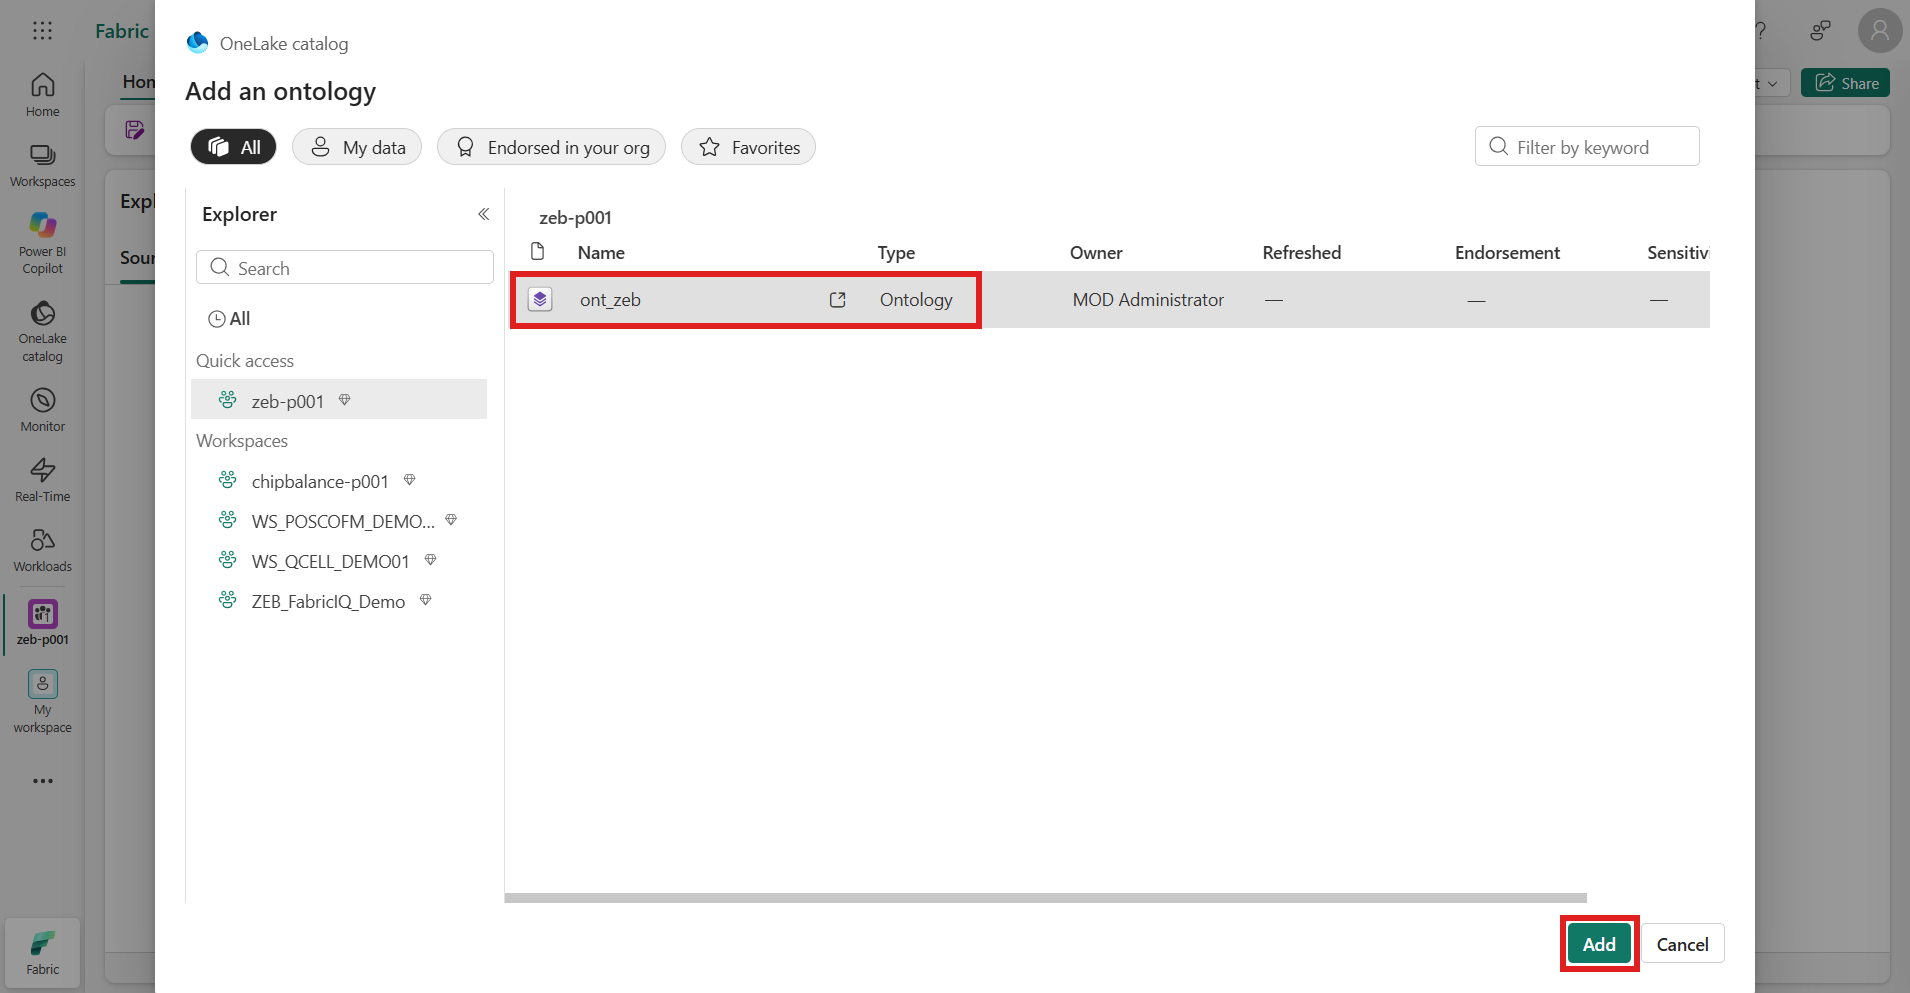
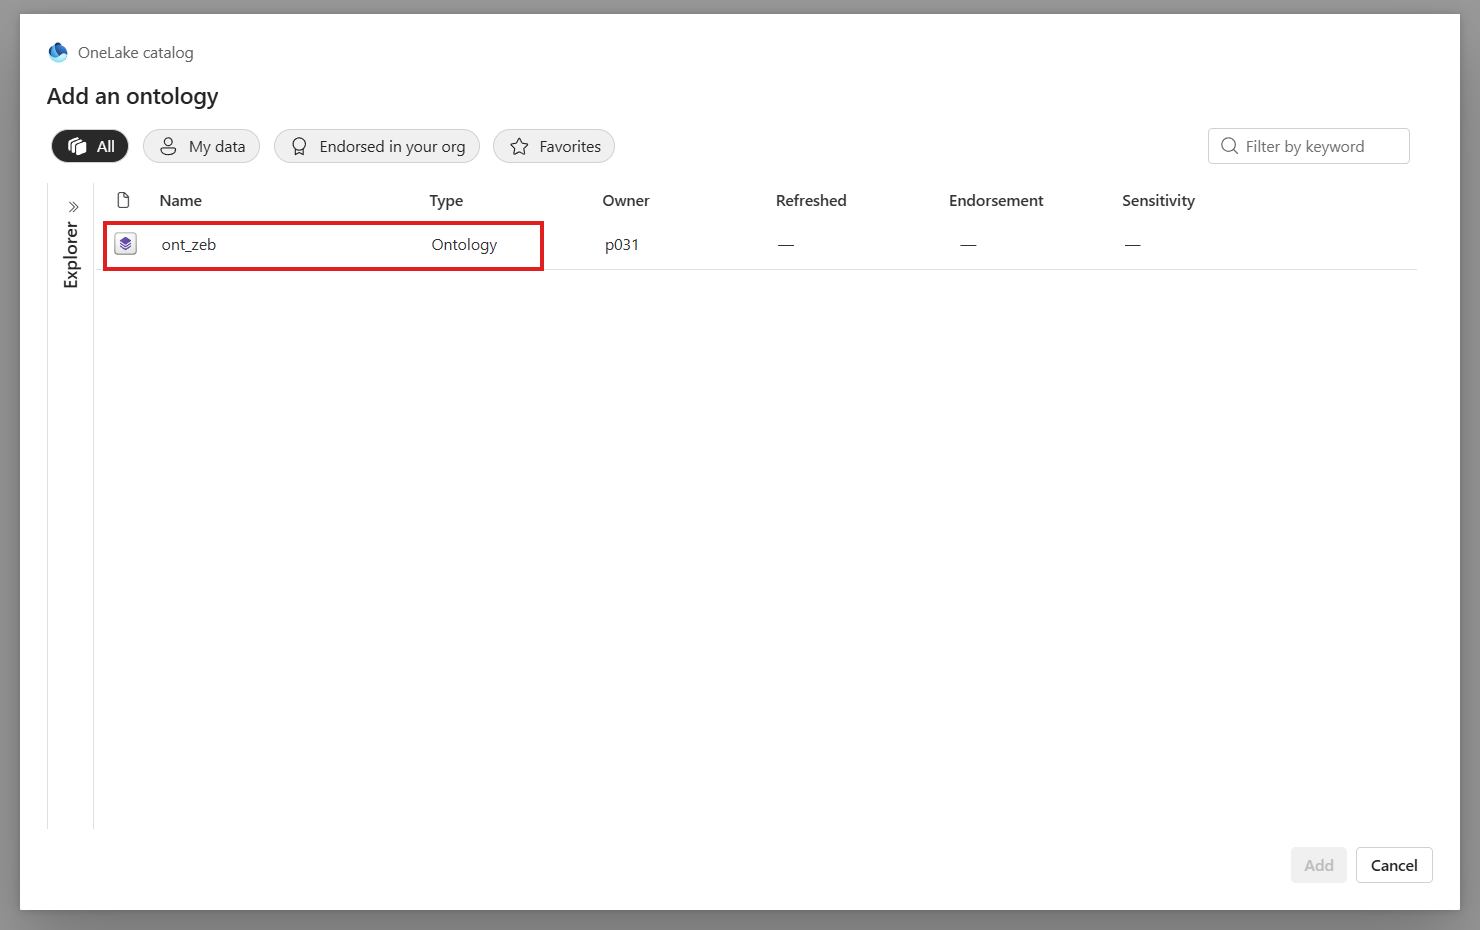
Simplify chapter 07 Ontology selection and refresh setup screenshots

diff --git a/docs/07-data-agent.md b/docs/07-data-agent.md
@@ -96,13 +96,20 @@
 ## 2. Data agent 만들고 Ontology 연결
 
 1.  본인 작업 영역에서 + New item을 누르고 `Data agent`로 검색해 Data agent를 고릅니다. 이름에 `da_zeb`를 입력하고 Create를 누릅니다. Welcome to Data Agent 창이 나오면 Skip for now를 누릅니다.
-2.  Build your data agent 화면에서 Add an ontology 카드를 누릅니다. 다른 참가자의 `ont_zeb`도 함께 보이므로, 왼쪽 Explorer를 펼쳐 본인 작업 영역을 고른 뒤 `ont_zeb`를 선택하고 Add를 누릅니다.
 
-    <img src="../assets/screenshots/d07-add-ontology.png" width="1000" alt="Add an ontology 창. 왼쪽 Explorer에서 zeb-p001을 골라 ont_zeb 하나만 보이고 선택되어 있습니다." />
+    <img src="../assets/screenshots/d07-create-agent.png" width="450" alt="Create data agent 창에 da_zeb가 입력되어 있고 Create 버튼이 보입니다." />
 
-3.  왼쪽 Explorer → Sources에서 `ont_zeb`를 펼칩니다.
+2.  Build your data agent 화면에서 Add an ontology 카드를 누릅니다. 목록에서 `ont_zeb`를 선택하고 Add를 누릅니다.
 
-확인할 결과: Entity types / 엔터티 형식 아래에 06장에서 만든 엔터티가 있고, Ontology data sources 아래에 본인 `lh_zeb` → `gold`가 있습니다. Lakehouse를 기타 데이터 원본으로 따로 추가하지 않습니다. 한국어 UI에서는 Ontology가 존재론으로 표시될 수 있습니다.
+    <img src="../assets/screenshots/d07-add-ontology.png" width="1000" alt="Add an ontology 창에 ont_zeb 한 항목이 보입니다. 선택할 항목의 이름과 형식을 빨간 테두리로 표시했습니다." />
+
+3.  왼쪽 Explorer → Sources에서 `ont_zeb` → Entity types를 펼쳐 06장에서 만든 `BIMModel`, `DesignVersion`, `Site` 등의 엔터티가 있는지 확인합니다.
+
+    <img src="../assets/screenshots/d07-entity-types.png" width="1000" alt="da_zeb의 Sources에서 ont_zeb의 Entity types를 펼친 화면. Entity types 제목을 빨간 테두리로 표시했고 아래에 통일한 이름의 엔터티들이 보입니다." />
+
+4.  Entity types를 접고 Ontology data sources를 펼칩니다. `lh_zeb` → Schemas → `gold` → Tables 아래에 원본 테이블이 있는지 확인합니다. Lakehouse를 기타 데이터 원본으로 따로 추가하지 않습니다.
+
+    <img src="../assets/screenshots/d07-ontology-sources.png" width="1000" alt="Ontology data sources 아래 lh_zeb, Schemas, gold, Tables로 이어지는 경로를 빨간 테두리로 표시했습니다. 아래에 bim_design_version, erp_project 등 Gold 원본 테이블이 보입니다." />
 
 Ontology는 업무 문맥이고 실행은 바인딩된 원본에 대한 질의입니다. Graph를 별도로 연결하지 않으며, Runtime은 관리자가 사전 확인한 설정을 사용합니다. 원본이 표시되지 않거나 읽기에 실패하면 연결·바인딩·본인의 읽기 권한을 먼저 확인합니다.
 
